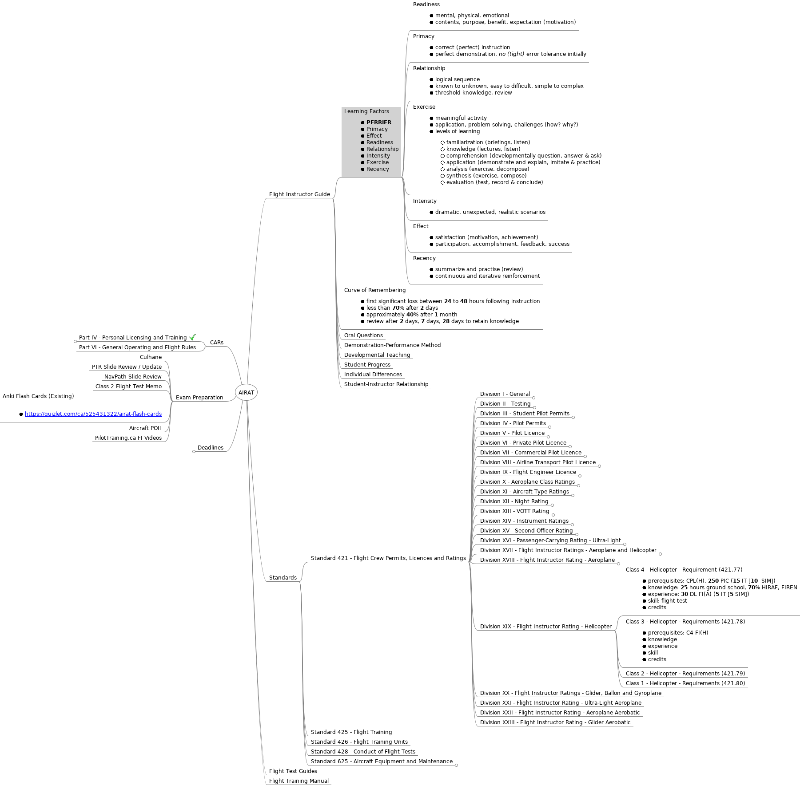
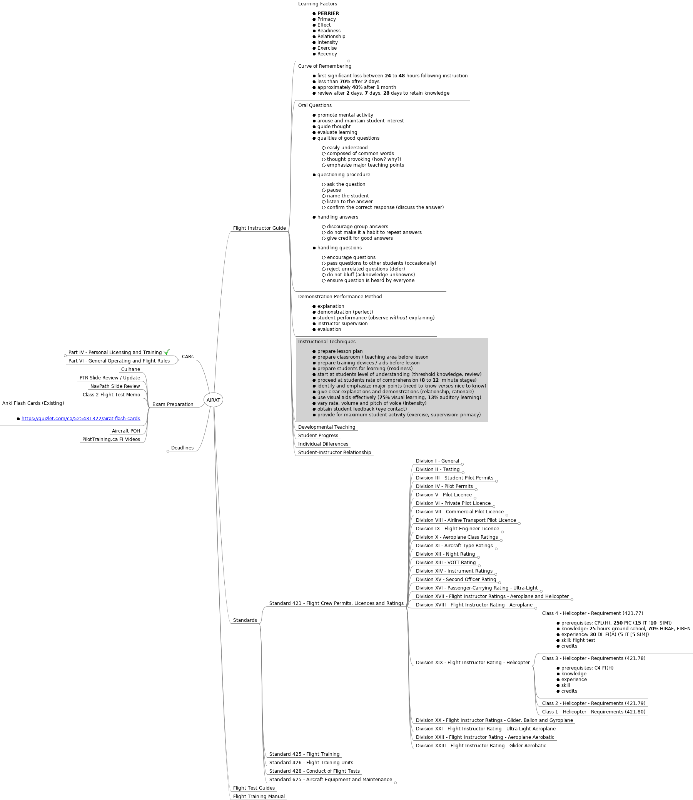
extended AIRAT mind map

diff --git a/FI/Documents/CARS/AIRAT.mm b/FI/Documents/CARS/AIRAT.mm
@@ -22,7 +22,7 @@
     </p>
   </body>
 </html></richcontent>
-<node CREATED="1605042449922" ID="ID_823618308" MODIFIED="1605151650524">
+<node CREATED="1605042449922" FOLDED="true" ID="ID_823618308" MODIFIED="1605218972938">
 <richcontent TYPE="NODE"><html>
   <head>
     
@@ -58,8 +58,7 @@
       </li>
     </ul>
   </body>
-</html>
-</richcontent>
+</html></richcontent>
 <node CREATED="1605044885592" ID="ID_727092077" MODIFIED="1605148064398">
 <richcontent TYPE="NODE"><html>
   <head>
@@ -78,8 +77,7 @@
       </li>
     </ul>
   </body>
-</html>
-</richcontent>
+</html></richcontent>
 </node>
 <node CREATED="1605044941103" ID="ID_1622350815" MODIFIED="1605148482611">
 <richcontent TYPE="NODE"><html>
@@ -99,8 +97,7 @@
       </li>
     </ul>
   </body>
-</html>
-</richcontent>
+</html></richcontent>
 </node>
 <node CREATED="1605044961232" ID="ID_283282728" MODIFIED="1605148593878">
 <richcontent TYPE="NODE"><html>
@@ -123,8 +120,7 @@
       </li>
     </ul>
   </body>
-</html>
-</richcontent>
+</html></richcontent>
 </node>
 <node CREATED="1605044981540" ID="ID_27281896" MODIFIED="1605151161755">
 <richcontent TYPE="NODE"><html>
@@ -171,8 +167,7 @@
       </li>
     </ul>
   </body>
-</html>
-</richcontent>
+</html></richcontent>
 </node>
 <node CREATED="1605044998015" ID="ID_1675518679" MODIFIED="1605146701324">
 <richcontent TYPE="NODE"><html>
@@ -189,8 +184,7 @@
       </li>
     </ul>
   </body>
-</html>
-</richcontent>
+</html></richcontent>
 </node>
 <node CREATED="1605045011809" ID="ID_232522300" MODIFIED="1605151489202">
 <richcontent TYPE="NODE"><html>
@@ -210,8 +204,7 @@
       </li>
     </ul>
   </body>
-</html>
-</richcontent>
+</html></richcontent>
 </node>
 <node CREATED="1605045026215" ID="ID_93282650" MODIFIED="1605151611792">
 <richcontent TYPE="NODE"><html>
@@ -231,8 +224,7 @@
       </li>
     </ul>
   </body>
-</html>
-</richcontent>
+</html></richcontent>
 </node>
 </node>
 <node CREATED="1605044873375" ID="ID_67425793" MODIFIED="1605148400221">
@@ -259,11 +251,191 @@
       </li>
     </ul>
   </body>
+</html></richcontent>
+</node>
+<node CREATED="1605045051113" ID="ID_1473530673" MODIFIED="1605212596261">
+<richcontent TYPE="NODE"><html>
+  <head>
+    
+  </head>
+  <body>
+    <p>
+      Oral Questions
+    </p>
+    <ul>
+      <li>
+        promote mental activity
+      </li>
+      <li>
+        arouse and maintain student interest
+      </li>
+      <li>
+        guide thought
+      </li>
+      <li>
+        evaluate learning
+      </li>
+      <li>
+        qualities of good questions
+
+        <ul>
+          <li>
+            easily understood
+          </li>
+          <li>
+            composed of common words
+          </li>
+          <li>
+            thought provoking (how? why?)
+          </li>
+          <li>
+            emphasize major teaching points
+          </li>
+        </ul>
+      </li>
+      <li>
+        questioning procedure
+
+        <ul>
+          <li>
+            ask the question
+          </li>
+          <li>
+            pause
+          </li>
+          <li>
+            name the student
+          </li>
+          <li>
+            listen to the answer
+          </li>
+          <li>
+            confirm the correct response (discuss the answer)
+          </li>
+        </ul>
+      </li>
+      <li>
+        handling answers
+
+        <ul>
+          <li>
+            discourage group answers
+          </li>
+          <li>
+            do not make it a habit to repeat answers
+          </li>
+          <li>
+            give credit for good answers
+          </li>
+        </ul>
+      </li>
+      <li>
+        handling questions
+
+        <ul>
+          <li>
+            encourage questions
+          </li>
+          <li>
+            pass questions to other students (occasionally)
+          </li>
+          <li>
+            reject unrelated questions (defer)
+          </li>
+          <li>
+            do not bluff (acknowledge unknowns)
+          </li>
+          <li>
+            ensure question is heard by everyone
+          </li>
+        </ul>
+      </li>
+    </ul>
+  </body>
 </html>
 </richcontent>
 </node>
-<node CREATED="1605045051113" ID="ID_1473530673" MODIFIED="1605045054090" TEXT="Oral Questions"/>
-<node CREATED="1605045089851" ID="ID_142106825" MODIFIED="1605045099073" TEXT="Demonstration-Performance Method"/>
+<node CREATED="1605045089851" ID="ID_142106825" MODIFIED="1605215839795">
+<richcontent TYPE="NODE"><html>
+  <head>
+    
+  </head>
+  <body>
+    <p>
+      Demonstration-Performance Method
+    </p>
+    <ul>
+      <li>
+        explanation
+      </li>
+      <li>
+        demonstration (perfect)
+      </li>
+      <li>
+        student performance (observe <i>without</i>&#160;explaining)
+      </li>
+      <li>
+        instructor supervision
+      </li>
+      <li>
+        evaluation
+      </li>
+    </ul>
+  </body>
+</html>
+</richcontent>
+</node>
+<node CREATED="1605215900814" ID="ID_1418402403" MODIFIED="1605218940096">
+<richcontent TYPE="NODE"><html>
+  <head>
+    
+  </head>
+  <body>
+    <p>
+      Instructional Techniques
+    </p>
+    <ul>
+      <li>
+        prepare lesson plan
+      </li>
+      <li>
+        prepare classroom / teaching area before lesson
+      </li>
+      <li>
+        prepare training devices / aids before lesson
+      </li>
+      <li>
+        prepare students for learning (readiness)
+      </li>
+      <li>
+        start at students level of understanding (threshold knowledge, review)
+      </li>
+      <li>
+        proceed at students rate of comprehension (<b>8</b>&#160;to <b>12</b>&#160;&#160;minute stages)
+      </li>
+      <li>
+        identify and emphasize major points (need to know <i>versus</i>&#160;nice to know)
+      </li>
+      <li>
+        give clear explanations and demonstrations (relationship, rationale)
+      </li>
+      <li>
+        use visual aids effectively (<b>75</b>% visual learning, <b>13</b>% auditory learning)
+      </li>
+      <li>
+        vary rate, volume and pitch of voice (intensity)
+      </li>
+      <li>
+        obtain student feedback (eye contact)
+      </li>
+      <li>
+        provide for maximum student activity (exercise, supervision: primacy)
+      </li>
+    </ul>
+  </body>
+</html>
+</richcontent>
+</node>
 <node CREATED="1605045139831" ID="ID_293817292" MODIFIED="1605045144934" TEXT="Developmental Teaching"/>
 <node CREATED="1605045163181" ID="ID_1352987692" MODIFIED="1605045167361" TEXT="Student Progress"/>
 <node CREATED="1605045189553" ID="ID_1268950095" MODIFIED="1605045200350" TEXT="Individual Differences"/>
